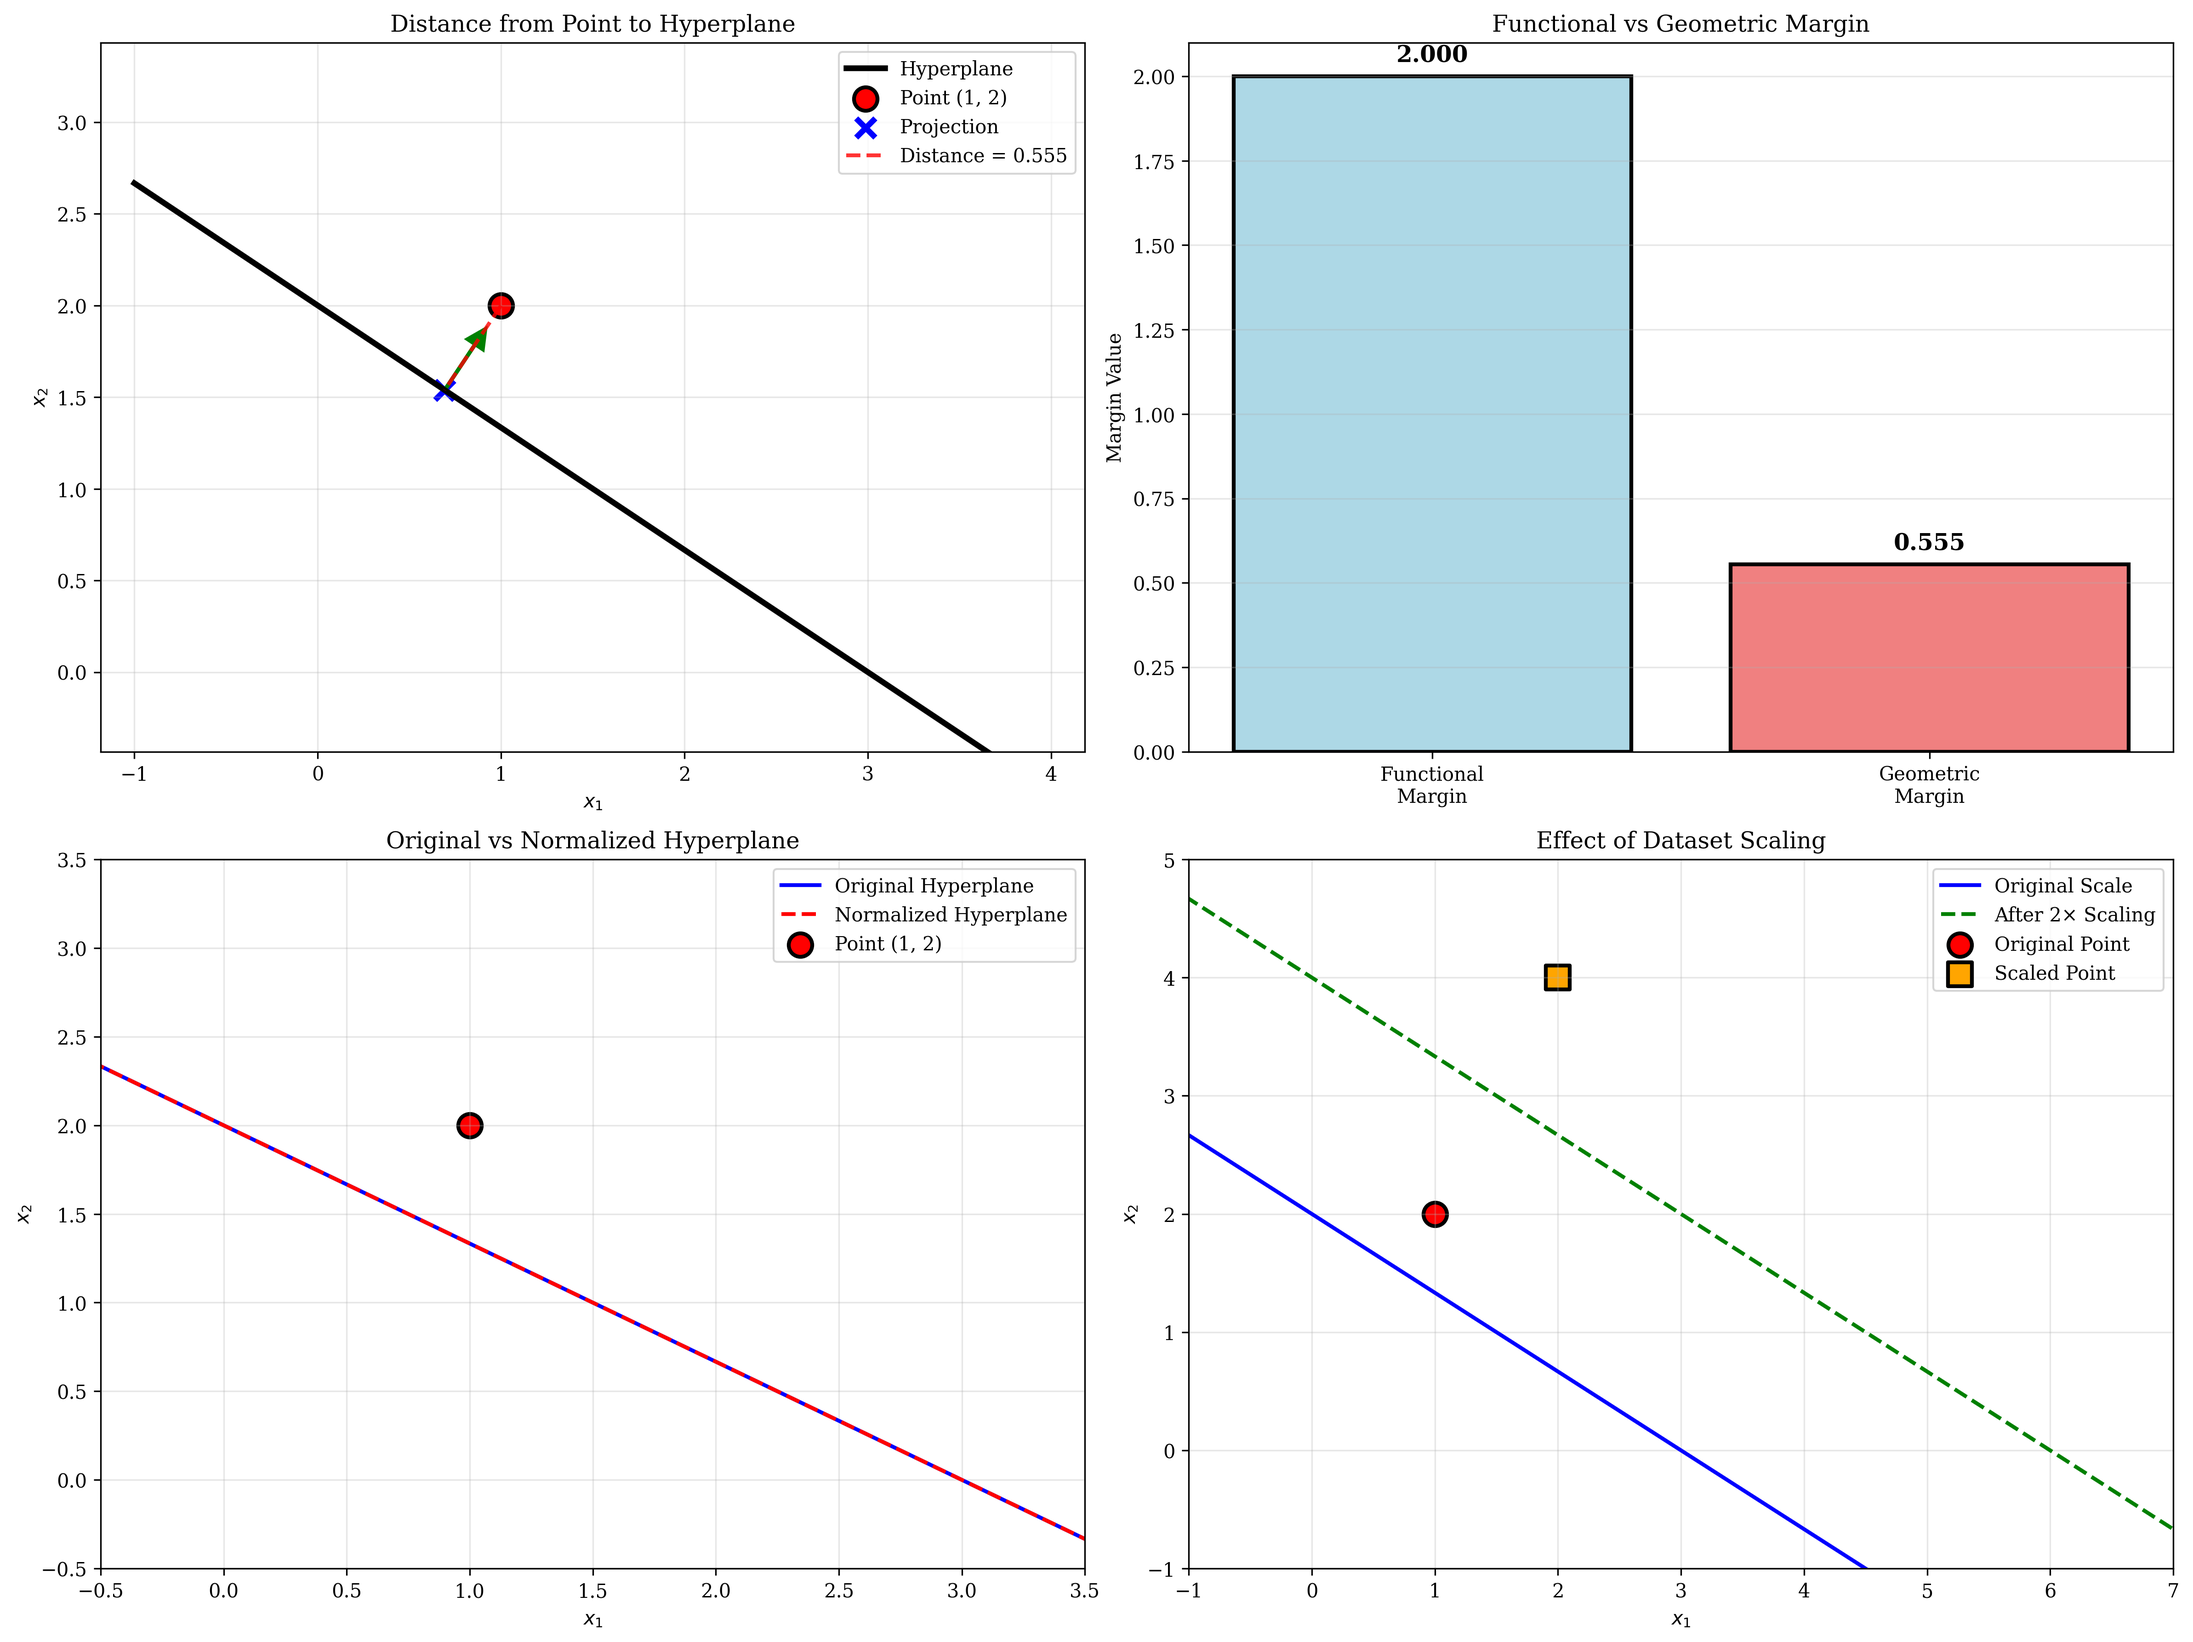
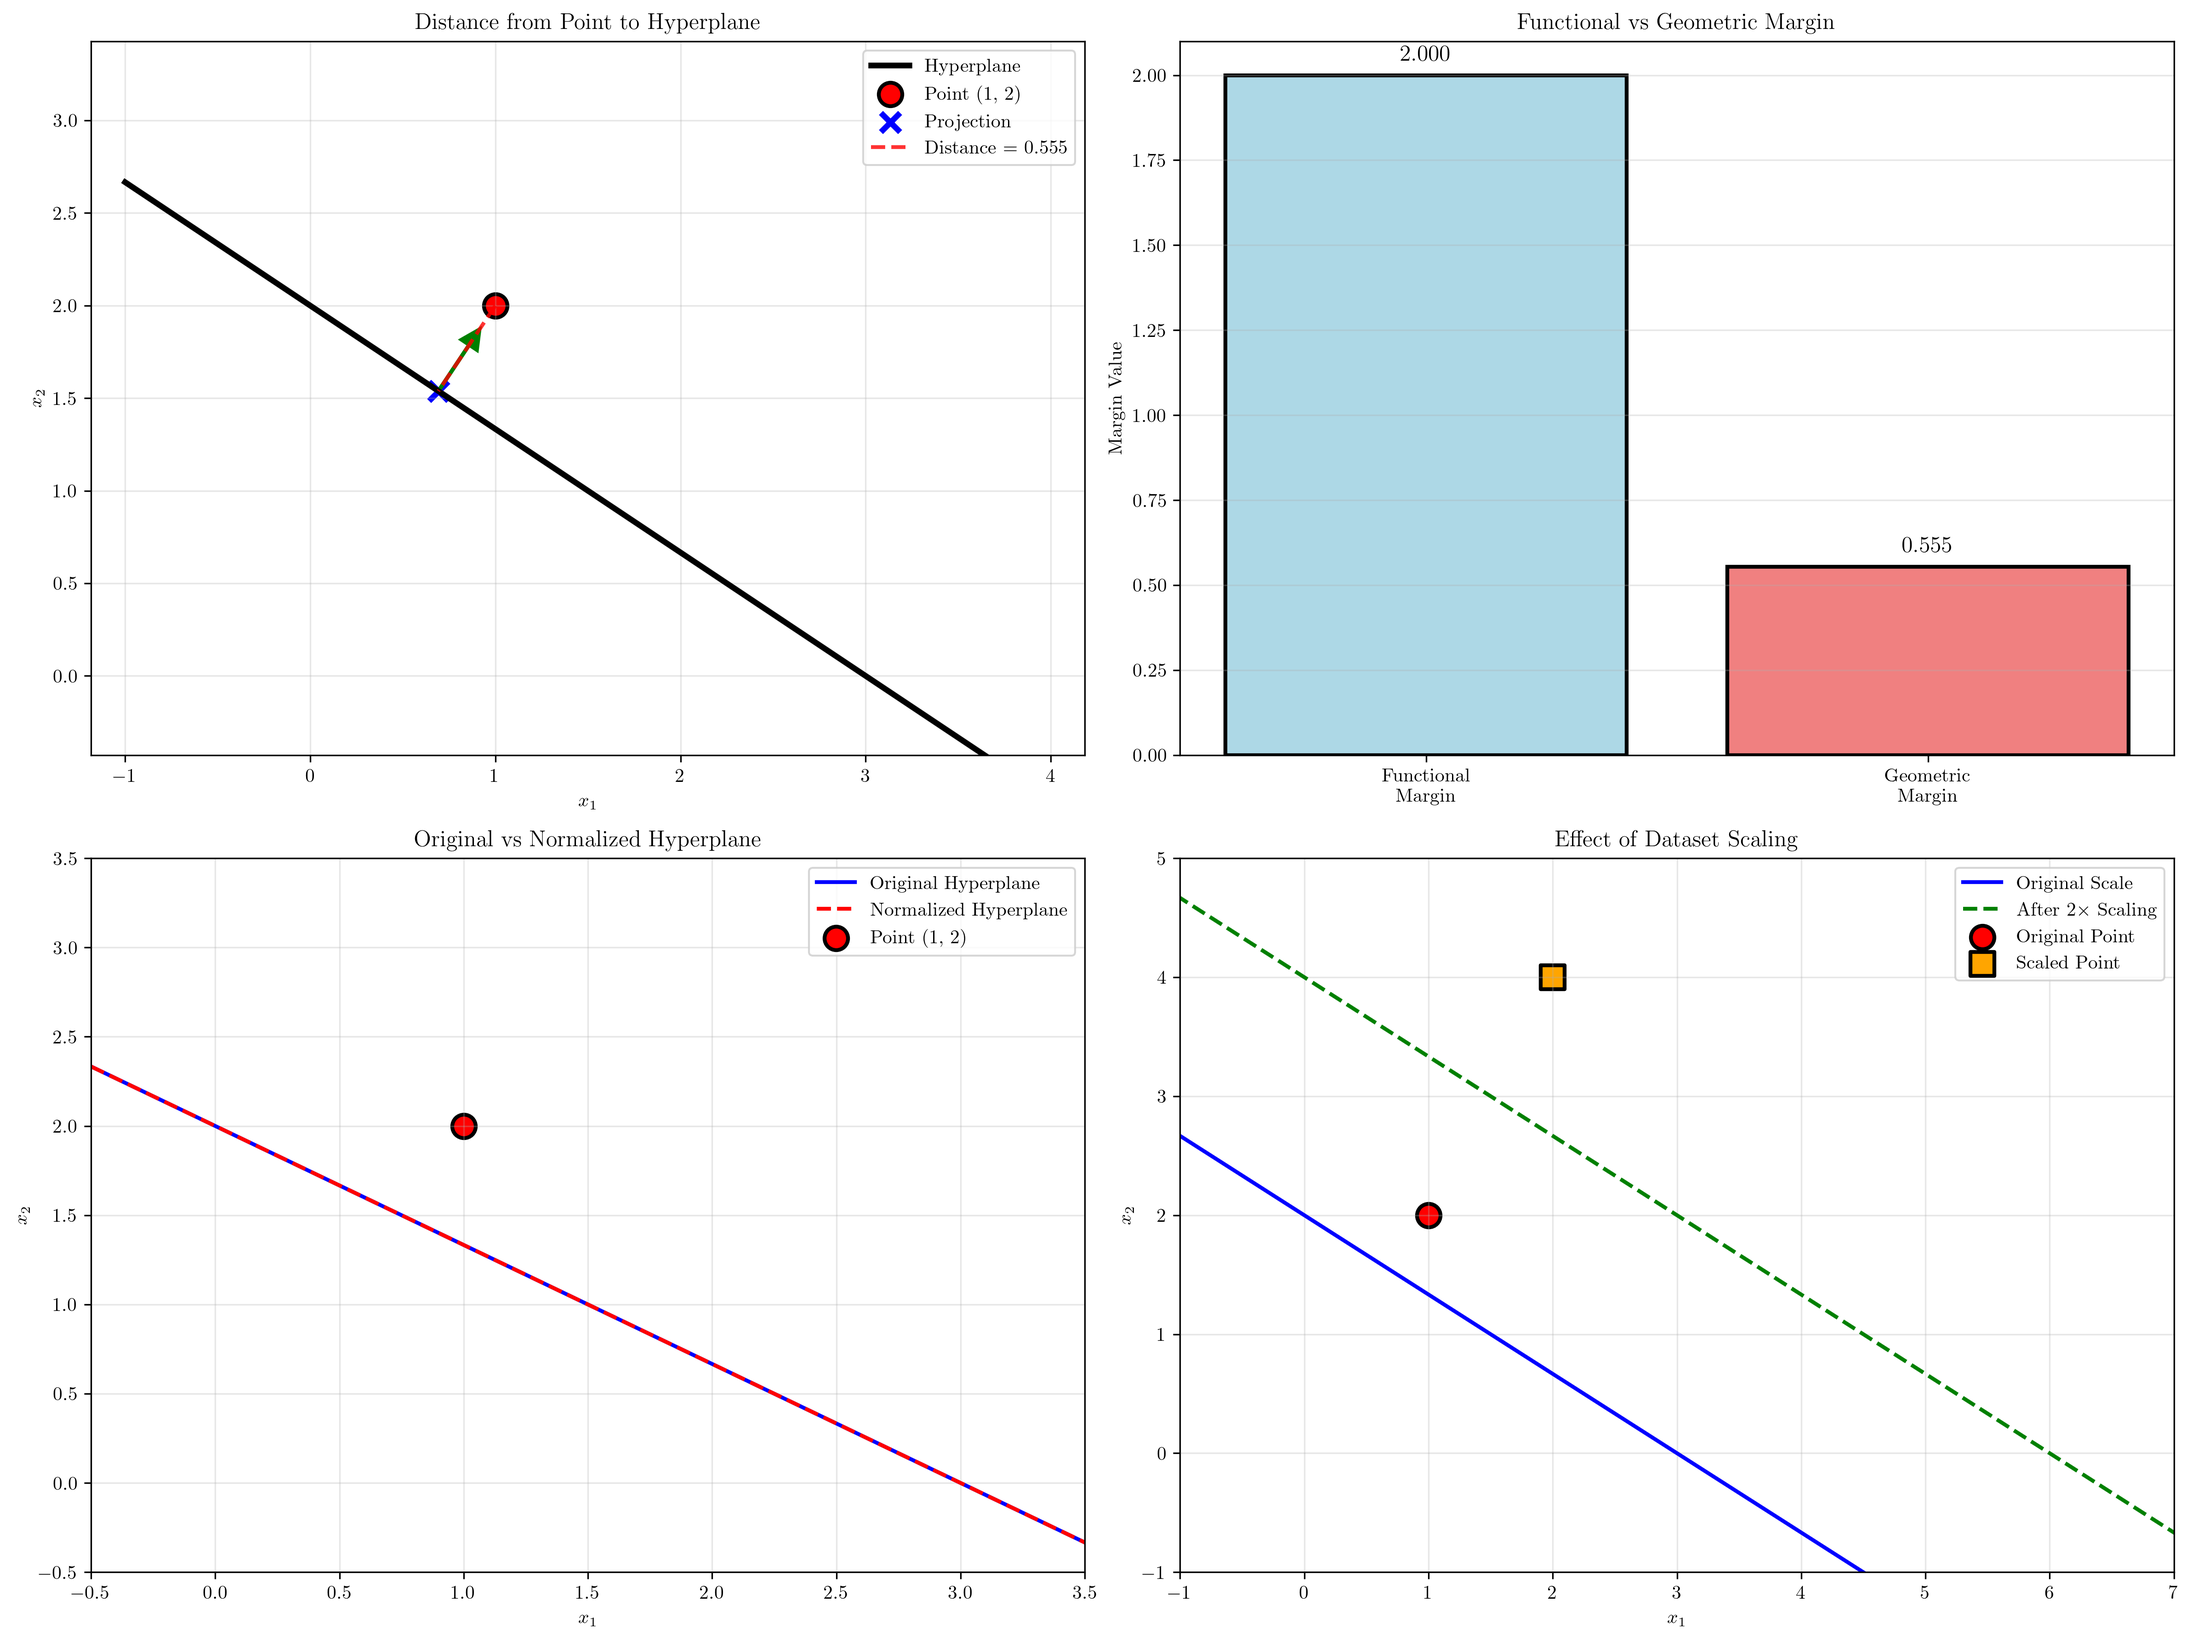
fix

diff --git a/ML_Obsidian_Vault/Lectures/5/Codes/L5_1_10_solution.py b/ML_Obsidian_Vault/Lectures/5/Codes/L5_1_10_solution.py
@@ -9,7 +9,7 @@ save_dir = os.path.join(images_dir, "L5_1_Quiz_10")
 os.makedirs(save_dir, exist_ok=True)
 
 # Enable LaTeX style plotting
-plt.rcParams['text.usetex'] = False
+plt.rcParams['text.usetex'] = True
 plt.rcParams['font.family'] = 'serif'
 
 print("=" * 80)
@@ -21,7 +21,7 @@ w = np.array([2, 3])
 b = -6
 w_norm = np.linalg.norm(w)
 
-print(f"Given hyperplane: {w[0]}x₁ + {w[1]}x₂ + {b} = 0")
+print(f"Given hyperplane: {w[0]}x_1 + {w[1]}x_2 + {b} = 0")
 print(f"Weight vector w = {w}")
 print(f"Bias term b = {b}")
 print(f"||w|| = {w_norm:.4f}")
@@ -259,8 +259,8 @@ ax.arrow(projection[0], projection[1],
          normal_end[0] - projection[0], normal_end[1] - projection[1],
          head_width=0.1, head_length=0.1, fc='purple', ec='purple', linewidth=2)
 
-ax.set_xlabel('x₁')
-ax.set_ylabel('x₂')
+ax.set_xlabel('$x_1$')
+ax.set_ylabel('$x_2$')
 ax.set_title('Distance from Point to Hyperplane')
 ax.grid(True, alpha=0.3)
 ax.legend()
